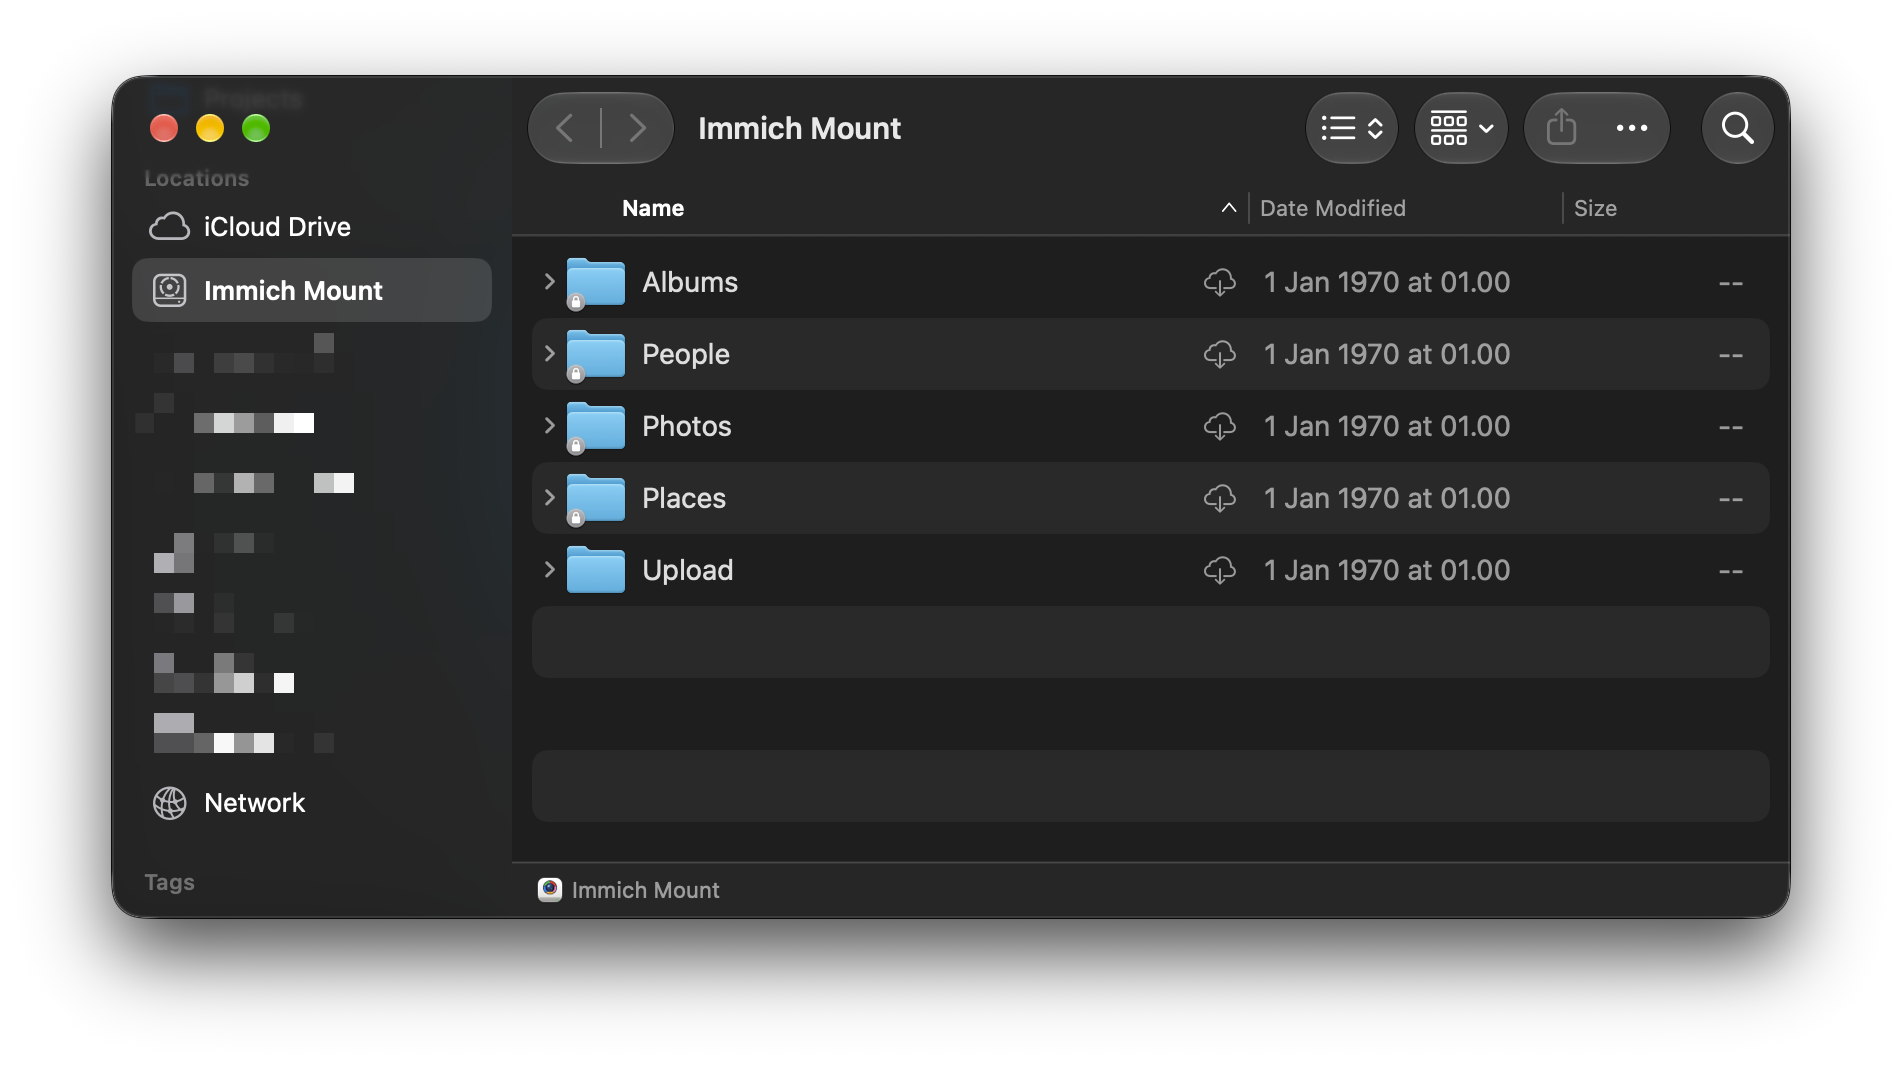
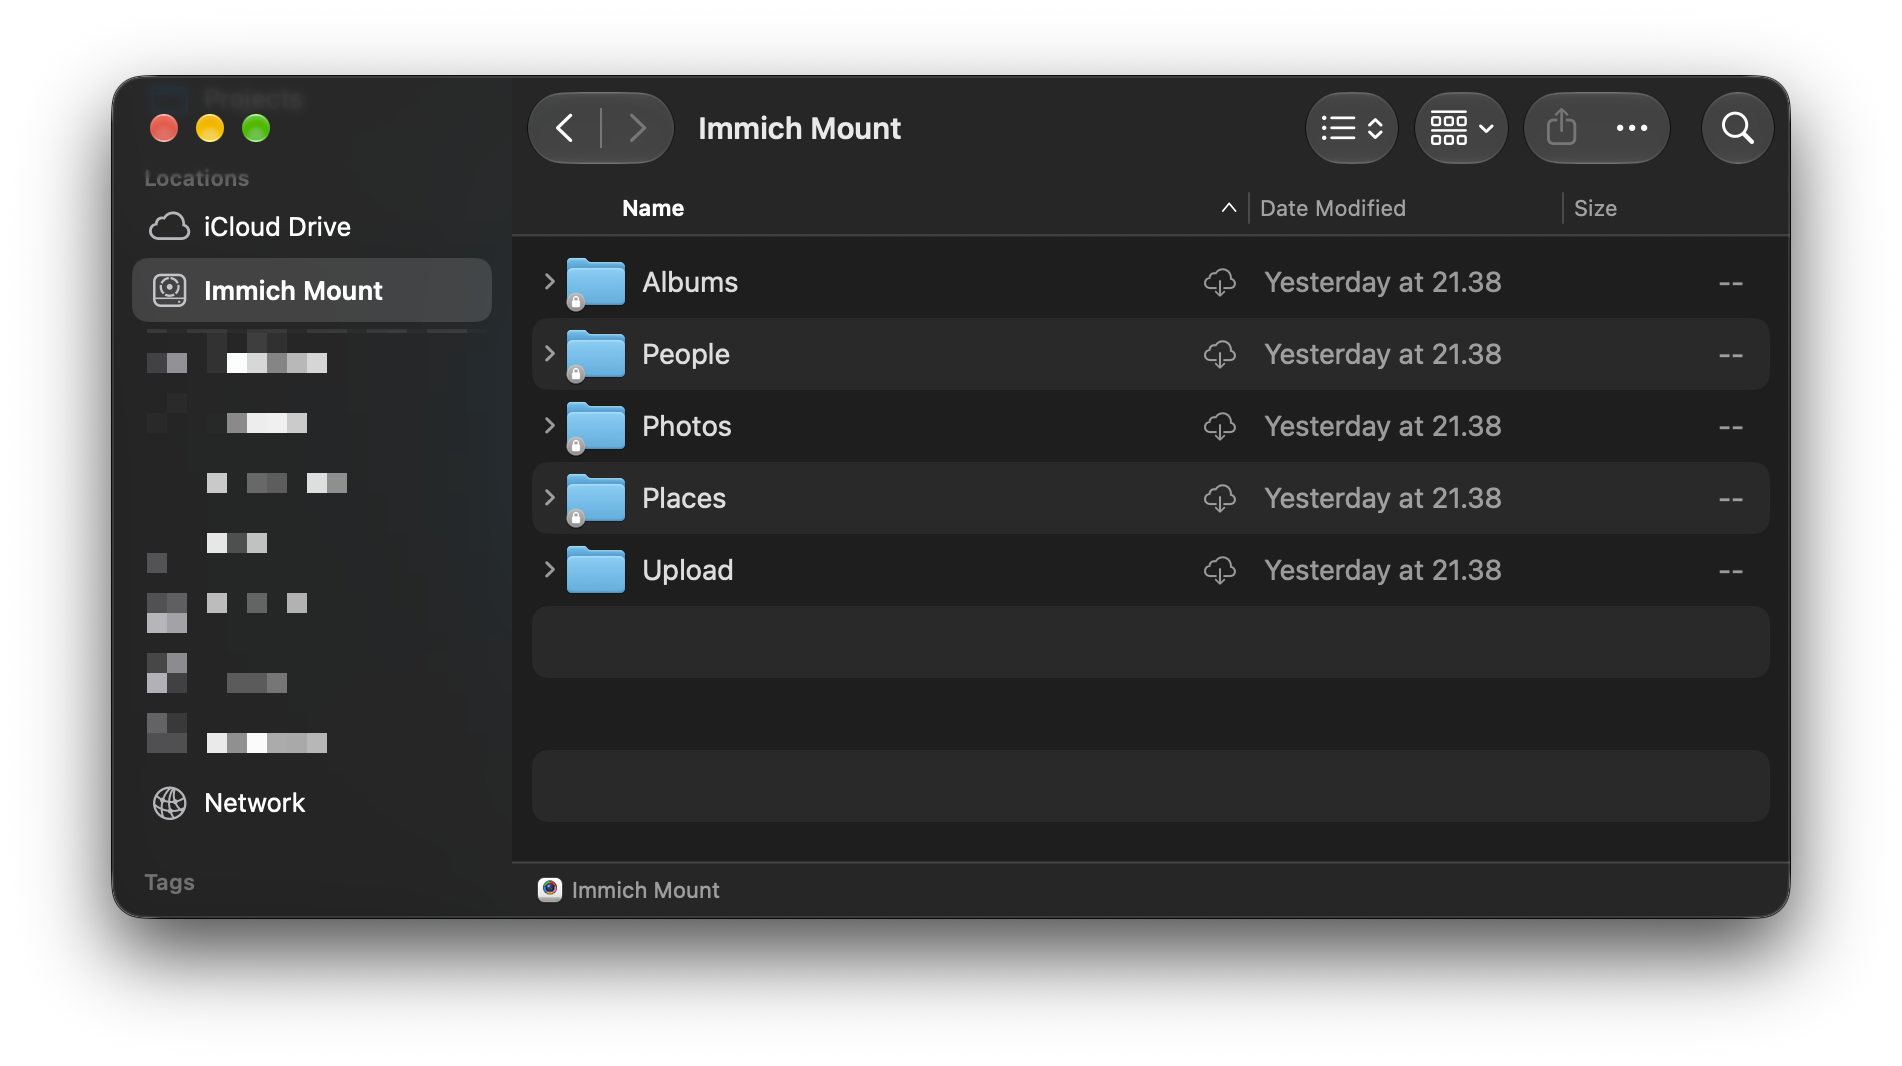
fix: the first start after any update opens no window, told by the build the app last ran
Sparkle's restart is only told by the version being replaced, and 2.21.10 never told, so the update from it still
opened Settings. The app keeps the build it last ran and, on a start where the build differs, only takes its place in
the menu bar, whatever updated it. Finder's picture is taken again, its folders dated.

diff --git a/apple/App/ImmichMountApp.swift b/apple/App/ImmichMountApp.swift
@@ -49,22 +49,23 @@ struct ImmichMountApp: App {
 /// Sparkle calls its user driver's delegate on the main thread, which its protocol does not declare: hence
 /// `@preconcurrency`.
 @MainActor
-final class AppDelegate: NSObject, NSApplicationDelegate, @preconcurrency SPUStandardUserDriverDelegate,
-                         @preconcurrency SPUUpdaterDelegate {
+final class AppDelegate: NSObject, NSApplicationDelegate, @preconcurrency SPUStandardUserDriverDelegate {
     private(set) static weak var shared: AppDelegate?
     let model = AppModel()
     /// Sparkle, which reads the download page's appcast and replaces the app in place, so it stays in Applications,
     /// where Finder's location runs it from. It starts only there: a copy anywhere else has nothing to update.
     private(set) lazy var updater = SPUStandardUpdaterController(startingUpdater: Installation.isInApplications,
-                                                                  updaterDelegate: self, userDriverDelegate: self)
+                                                                  updaterDelegate: nil, userDriverDelegate: self)
     private var window: NSWindow?
     private var settingsWindow: NSWindow?
     private var setUp: AnyCancellable?
     /// Whether macOS started the app as a login item, read from the launch event before it is gone.
     private var launchedAtLogin = false
-    /// Whether Sparkle started this run, to finish an update: the app comes back as it was, in the menu bar alone.
+    /// Whether this is the first run of this build: after an update (Sparkle's, or Homebrew's), the app comes back as
+    /// it was, in the menu bar alone. Told by the build the app last ran, which it keeps; an update from a build that
+    /// kept none counts too, as a first install is signed out and opens the sign-in window anyway.
     private var launchedAfterUpdate = false
-    private static let updatingKey = "updating"
+    private static let lastBuildKey = "lastBuild"
 
     override init() {
         super.init()
@@ -73,8 +74,9 @@ final class AppDelegate: NSObject, NSApplicationDelegate, @preconcurrency SPUSta
 
     func applicationWillFinishLaunching(_ notification: Notification) {
         let launch = NSAppleEventManager.shared().currentAppleEvent
-        launchedAfterUpdate = UserDefaults.standard.bool(forKey: Self.updatingKey)
-        UserDefaults.standard.removeObject(forKey: Self.updatingKey)
+        let build = Bundle.main.object(forInfoDictionaryKey: "CFBundleVersion") as? String ?? ""
+        launchedAfterUpdate = UserDefaults.standard.string(forKey: Self.lastBuildKey) != build
+        UserDefaults.standard.set(build, forKey: Self.lastBuildKey)
         launchedAtLogin = launch?.eventID == kAEOpenApplication
             && launch?.paramDescriptor(forKeyword: keyAEPropData)?.enumCodeValue == keyAELaunchedAsLogInItem
     }
@@ -113,12 +115,6 @@ final class AppDelegate: NSObject, NSApplicationDelegate, @preconcurrency SPUSta
         #if DEBUG
         Task { await model.followLaunchArguments() }
         #endif
-    }
-
-    /// Sparkle is about to start the new version: it comes back in the menu bar alone, not with Settings open, which a
-    /// launch by hand opens (seen after an update, macOS 27).
-    func updaterWillRelaunchApplication(_ updater: SPUUpdater) {
-        UserDefaults.standard.set(true, forKey: Self.updatingKey)
     }
 
     /// Sparkle's scheduled update alerts come without a window of the app's in front: they bring the app forward, so

diff --git a/ARCHITECTURE.md b/ARCHITECTURE.md
@@ -1366,8 +1366,8 @@ when opened, eviction under storage pressure, the Finder sidebar and every file 
     again without end as the content changes, which stopped the app (macOS 27). Settings, whose form scrolls, has a
     size of its own.
   - **Opened by someone** (from Finder, Launchpad or Spotlight), it shows what is left to do, or Settings once
-    nothing is; started at login, or again by Sparkle after an update (it marks that as the update begins), it only
-    takes its place in the menu bar. Settings is a window of its own, which
+    nothing is; started at login, or for the first time after an update (its build differs from the one it last
+    ran, which it keeps), it only takes its place in the menu bar. Settings is a window of its own, which
     the menu, the app menu's Command-comma and reopening all reach; "Open at login" is there, under General.
   - **While a window is open** (the sign-in, Settings, About) it has a Dock icon and its menus, so Command-Q and
     pasting work as anywhere; with the last one closed it is in the menu bar only.
